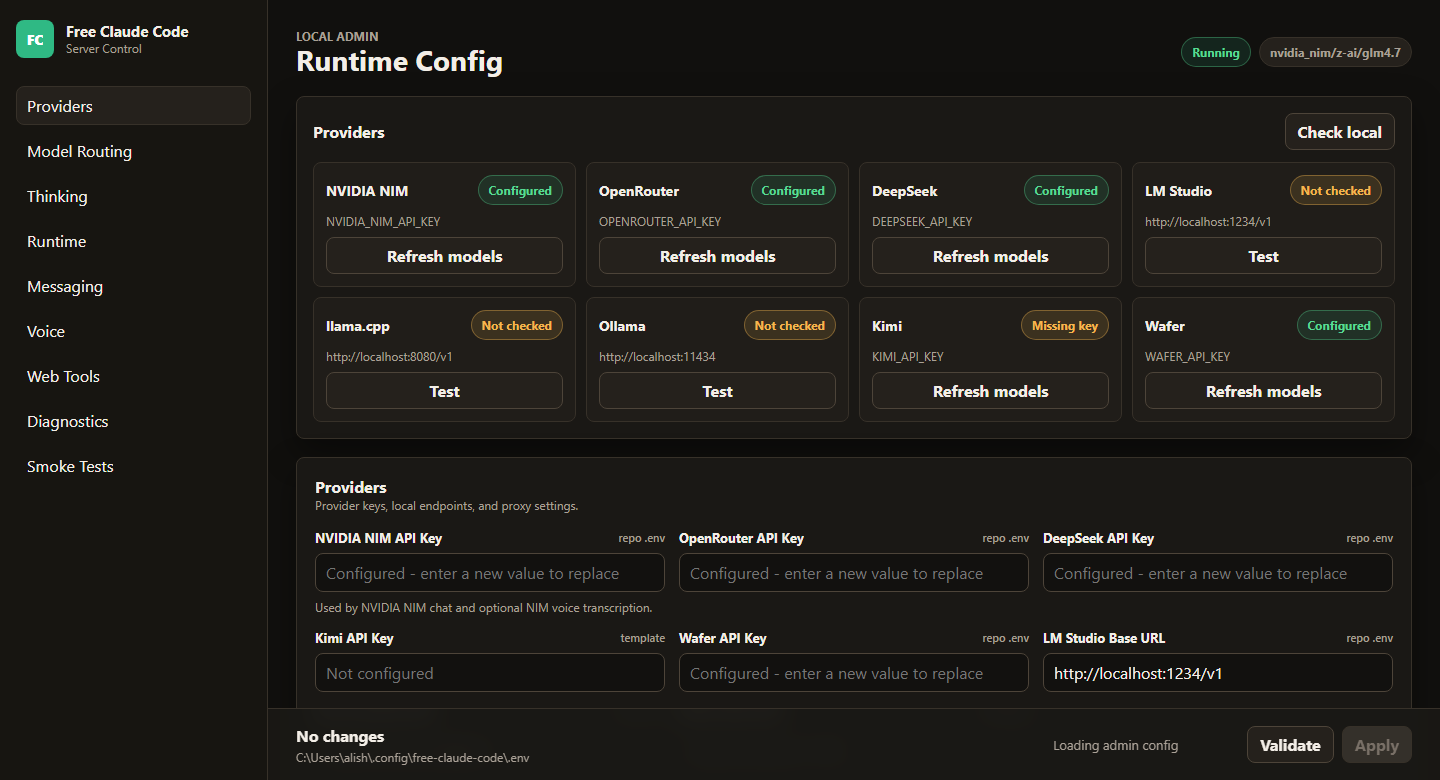
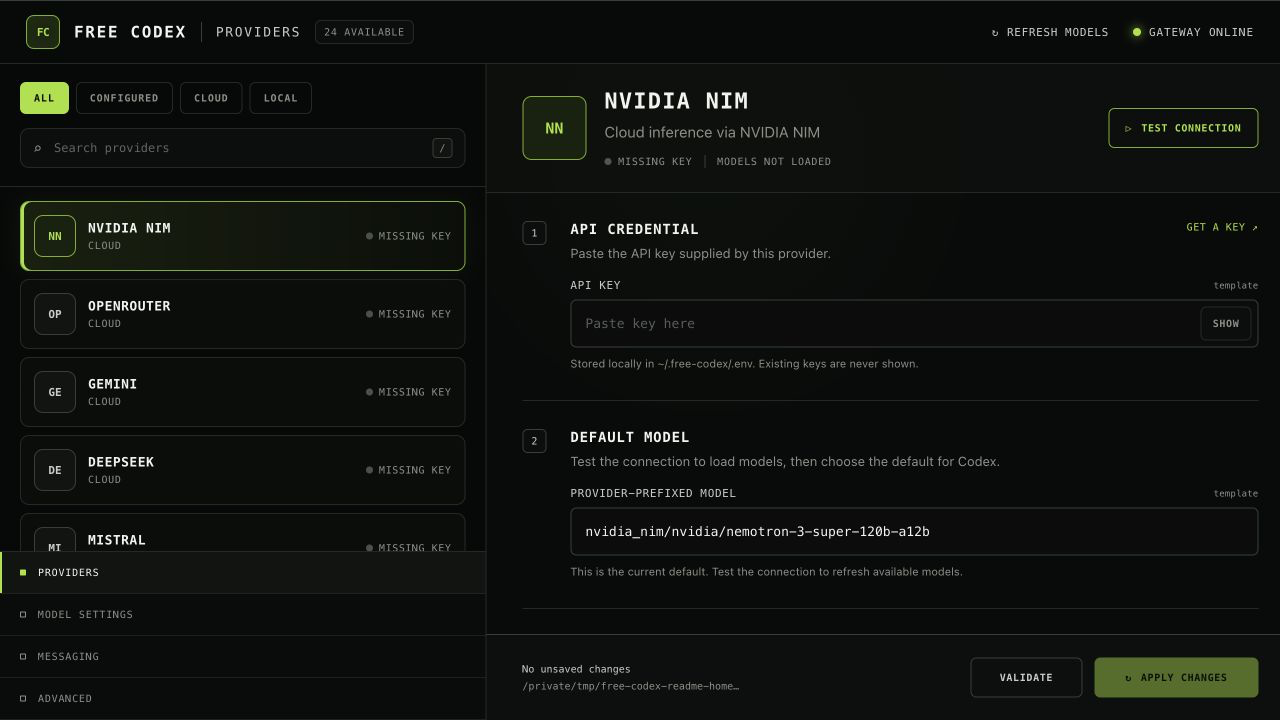
Polish README and add current screenshots

diff --git a/README.md b/README.md
@@ -2,213 +2,244 @@
 
 # Free Codex
 
-Run Codex CLI with free, local, or provider-hosted models through a local OpenAI Responses gateway.
+Run the Codex CLI with cloud, free-tier, or local models through a local OpenAI Responses gateway.
 
-[Quick start](#quick-start) | [Providers](#providers) | [How it works](#how-it-works) | [Development](#development)
+[Quick start](#quick-start) · [Using models](#using-models) · [Providers](#providers) · [Development](#development)
 
 </div>
 
-Free Codex keeps the Codex terminal experience - tool use, streaming, resumable threads, and the native model picker - while routing inference through a provider you control.
+Free Codex keeps the normal Codex terminal experience—including tools, streaming,
+resumable threads, and `/model`—while sending model requests to a provider you
+choose.
 
-## Features
+![Free Codex provider setup](assets/admin-page.png)
 
-- First-class free-codex, free-codex-server, and free-codex-init commands.
-- OpenAI Responses-compatible gateway for Codex CLI and the Codex editor extension.
-- 24 cloud and local provider adapters.
-- Local Admin UI for credentials, model selection, validation, and runtime settings.
-- Generated model catalog for the native /model picker.
-- Streaming text, reasoning, tool calls, usage accounting, retry handling, and protocol error mapping.
-- Optional Discord and Telegram sessions backed by codex exec --json.
-- Optional local or NVIDIA NIM voice transcription.
-- Windows, macOS, and Linux lifecycle scripts.
-- Deterministic provider, protocol, API, messaging, and CLI tests.
+## What you get
+
+- The standard Codex CLI and its built-in tools.
+- A local gateway compatible with the OpenAI Responses API.
+- A browser-based Admin UI for API keys, connection tests, and model selection.
+- 21 cloud provider integrations and 3 local runtimes.
+- A generated catalog that makes provider models available through Codex `/model`.
+- macOS, Linux, and Windows installers.
+
+Free Codex does not provide models or bypass provider terms. Availability, pricing,
+rate limits, and data handling are controlled by the provider you select.
 
 ## Quick start
 
 ### 1. Clone and install
 
-    git clone https://github.com/ishaanxgupta/free-codex.git
-    cd free-codex
+```sh
+git clone https://github.com/ishaanxgupta/free-codex.git
+cd free-codex
+```
 
 macOS or Linux:
 
-    sh scripts/install.sh
+```sh
+./scripts/install.sh
+```
 
 Windows PowerShell:
 
-    .\scripts\install.ps1
+```powershell
+.\scripts\install.ps1
+```
 
-The installer provisions Codex CLI when missing, Astral uv, Python 3.14, and the Free Codex tool.
+The installer adds Codex CLI when it is missing, installs Astral `uv` and Python
+3.14, and installs the three Free Codex commands.
 
-### 2. Initialize configuration
+### 2. Create your local configuration
 
-    free-codex-init
+```sh
+free-codex-init
+```
 
-This creates ~/.free-codex/.env.
+This creates `~/.free-codex/.env` (or `%USERPROFILE%\.free-codex\.env` on
+Windows).
 
 ### 3. Start the gateway
 
-    free-codex-server
+```sh
+free-codex-server
+```
 
-The Admin UI opens at http://127.0.0.1:8082/admin by default.
+Keep this terminal open. The Admin UI opens automatically at
+[http://127.0.0.1:8082/admin](http://127.0.0.1:8082/admin).
 
-### 4. Add a provider key and select a model
+In the Admin UI:
 
-Open the Admin UI, select a provider, add its API key or local server URL, and
-choose **Test connection**. After the provider returns its available models,
-select a default model and choose **Apply changes**. Provider keys are stored
-locally in `~/.free-codex/.env` and are never shown again by the Admin UI.
+1. Select a cloud provider or local runtime.
+2. Paste its API key, or confirm the local endpoint.
+3. Choose **Test connection** to load the provider's current models.
+4. Select a default model and choose **Apply changes**.
 
-For a no-cost cloud starting point, enter these values in the Admin UI:
+API keys stay in the local `~/.free-codex/.env` file. Saved keys are masked in
+the Admin UI.
 
-    OPENROUTER_API_KEY="..."
-    MODEL="open_router/openrouter/free"
+### 4. Launch Codex
 
-For Ollama:
+Open a second terminal in the repository you want Codex to work on:
 
-    OLLAMA_BASE_URL="http://localhost:11434"
-    MODEL="ollama/qwen3-coder"
+```sh
+free-codex
+```
 
-Apply the settings in the Admin UI, restart the gateway if prompted, then launch
-Codex in a second terminal:
+That is all that is required. Free Codex supplies the gateway URL, authentication,
+default model, and model catalog to Codex for that launch; it does not permanently
+rewrite your Codex configuration.
 
-    free-codex
+## Using models
 
-All normal Codex arguments are forwarded:
+Inside Codex, enter `/model` to choose any model discovered from your configured
+providers.
 
-    free-codex exec "explain this repository"
-    free-codex --sandbox workspace-write --ask-for-approval never
+You can also select a provider-prefixed model when launching:
 
-Inside Codex, use /model to select a model exposed by the gateway.
+```sh
+free-codex --model "nvidia_nim/z-ai/glm-5.2"
+```
+
+Run a non-interactive task:
+
+```sh
+free-codex exec "explain this repository"
+```
+
+Use normal current Codex safety flags when needed:
+
+```sh
+free-codex --sandbox workspace-write --ask-for-approval never
+```
+
+The older `--full-auto` flag is not accepted by current Codex CLI versions.
+
+## Admin UI
+
+The Admin UI keeps provider credentials, model choice, reasoning settings, web
+tools, messaging, and advanced runtime options in one place.
+
+![Free Codex model settings](assets/admin-settings.png)
 
 ## Providers
 
-| Provider | Credential or setting | Example model |
+The Admin UI is the source of truth for connection requirements and currently
+available models. Choose **Get a key** for the selected cloud provider, then use
+**Test connection** to discover its models.
+
+<details>
+<summary>All supported providers</summary>
+
+| Provider | Credential or endpoint | Model format |
 | --- | --- | --- |
-| [OpenRouter](https://openrouter.ai/) | `OPENROUTER_API_KEY` | `open_router/openrouter/free` |
-| [NVIDIA NIM](https://build.nvidia.com/) | `NVIDIA_NIM_API_KEY` | `nvidia_nim/nvidia/nemotron-3-super-120b-a12b` |
-| [Gemini](https://aistudio.google.com/) | `GEMINI_API_KEY` | `gemini/models/gemini-3.1-flash-lite` |
-| [DeepSeek](https://platform.deepseek.com/) | `DEEPSEEK_API_KEY` | `deepseek/deepseek-chat` |
-| [Mistral](https://console.mistral.ai/) | `MISTRAL_API_KEY` | `mistral/devstral-small-latest` |
-| [Mistral Codestral](https://console.mistral.ai/) | `CODESTRAL_API_KEY` | `mistral_codestral/codestral-latest` |
-| [OpenCode Zen](https://opencode.ai/) | `OPENCODE_API_KEY` | `opencode/gpt-5.3-codex` |
-| [OpenCode Go](https://opencode.ai/) | `OPENCODE_API_KEY` | `opencode_go/minimax-m2.7` |
-| [Vercel AI Gateway](https://vercel.com/docs/ai-gateway) | `AI_GATEWAY_API_KEY` | `vercel/openai/gpt-5.5` |
-| [Hugging Face](https://huggingface.co/) | `HUGGINGFACE_API_KEY` | `huggingface/openai/gpt-oss-120b:fastest` |
-| [Cohere](https://cohere.com/) | `COHERE_API_KEY` | `cohere/command-a-plus-05-2026` |
-| [GitHub Models](https://github.com/marketplace/models) | `GITHUB_MODELS_TOKEN` | `github_models/openai/gpt-4.1` |
-| [Wafer](https://www.wafer.ai/) | `WAFER_API_KEY` | `wafer/DeepSeek-V4-Pro` |
-| [Kimi](https://platform.moonshot.cn/) | `KIMI_API_KEY` | `kimi/kimi-k2.5` |
-| [MiniMax](https://www.minimax.io/) | `MINIMAX_API_KEY` | `minimax/MiniMax-M3` |
-| [Groq](https://console.groq.com/) | `GROQ_API_KEY` | `groq/llama-3.3-70b-versatile` |
-| [Cerebras](https://cloud.cerebras.ai/) | `CEREBRAS_API_KEY` | `cerebras/gpt-oss-120b` |
-| [SambaNova](https://cloud.sambanova.ai/) | `SAMBANOVA_API_KEY` | `sambanova/Meta-Llama-3.3-70B-Instruct` |
-| [Fireworks](https://fireworks.ai/) | `FIREWORKS_API_KEY` | `fireworks/accounts/fireworks/models/llama-v3p3-70b-instruct` |
-| [Cloudflare Workers AI](https://developers.cloudflare.com/workers-ai/) | `CLOUDFLARE_API_TOKEN` and `CLOUDFLARE_ACCOUNT_ID` | `cloudflare/@cf/moonshotai/kimi-k2.6` |
-| [Z.ai](https://z.ai/) | `ZAI_API_KEY` | `zai/glm-5.2` |
-| [Ollama](https://ollama.com/) | `OLLAMA_BASE_URL` | `ollama/qwen3-coder` |
-| [LM Studio](https://lmstudio.ai/) | `LM_STUDIO_BASE_URL` | `lmstudio/model-id` |
-| [llama.cpp](https://github.com/ggml-org/llama.cpp) | `LLAMACPP_BASE_URL` | `llamacpp/model-id` |
+| [NVIDIA NIM](https://build.nvidia.com/) | `NVIDIA_NIM_API_KEY` | `nvidia_nim/<model-id>` |
+| [OpenRouter](https://openrouter.ai/) | `OPENROUTER_API_KEY` | `open_router/<provider>/<model>` |
+| [Gemini](https://aistudio.google.com/) | `GEMINI_API_KEY` | `gemini/models/<model>` |
+| [DeepSeek](https://platform.deepseek.com/) | `DEEPSEEK_API_KEY` | `deepseek/<model-id>` |
+| [Mistral](https://console.mistral.ai/) | `MISTRAL_API_KEY` | `mistral/<model-id>` |
+| [Mistral Codestral](https://console.mistral.ai/) | `CODESTRAL_API_KEY` | `mistral_codestral/<model-id>` |
+| [OpenCode Zen](https://opencode.ai/) | `OPENCODE_API_KEY` | `opencode/<model-id>` |
+| [OpenCode Go](https://opencode.ai/) | `OPENCODE_API_KEY` | `opencode_go/<model-id>` |
+| [Vercel AI Gateway](https://vercel.com/docs/ai-gateway) | `AI_GATEWAY_API_KEY` | `vercel/<provider>/<model>` |
+| [Hugging Face](https://huggingface.co/) | `HUGGINGFACE_API_KEY` | `huggingface/<model-id>` |
+| [Cohere](https://cohere.com/) | `COHERE_API_KEY` | `cohere/<model-id>` |
+| [GitHub Models](https://github.com/marketplace/models) | `GITHUB_MODELS_TOKEN` | `github_models/<model-id>` |
+| [Wafer](https://www.wafer.ai/) | `WAFER_API_KEY` | `wafer/<model-id>` |
+| [Kimi](https://platform.moonshot.cn/) | `KIMI_API_KEY` | `kimi/<model-id>` |
+| [MiniMax](https://www.minimax.io/) | `MINIMAX_API_KEY` | `minimax/<model-id>` |
+| [Cerebras](https://cloud.cerebras.ai/) | `CEREBRAS_API_KEY` | `cerebras/<model-id>` |
+| [Groq](https://console.groq.com/) | `GROQ_API_KEY` | `groq/<model-id>` |
+| [SambaNova](https://cloud.sambanova.ai/) | `SAMBANOVA_API_KEY` | `sambanova/<model-id>` |
+| [Fireworks](https://fireworks.ai/) | `FIREWORKS_API_KEY` | `fireworks/<model-id>` |
+| [Cloudflare Workers AI](https://developers.cloudflare.com/workers-ai/) | API token and account ID | `cloudflare/<model-id>` |
+| [Z.ai](https://z.ai/) | `ZAI_API_KEY` | `zai/<model-id>` |
+| [Ollama](https://ollama.com/) | `http://localhost:11434` | `ollama/<model-id>` |
+| [LM Studio](https://lmstudio.ai/) | `http://localhost:1234/v1` | `lmstudio/<model-id>` |
+| [llama.cpp](https://github.com/ggml-org/llama.cpp) | `http://localhost:8080/v1` | `llamacpp/<model-id>` |
 
-The Admin UI contains the complete provider catalog and provider-specific validation.
-
-Free Codex does not provide models or bypass provider terms. "Free" means you can use free-tier or local inference when the selected provider offers it.
-
-## Configuration
-
-Important settings in ~/.free-codex/.env:
-
-    MODEL="open_router/openrouter/free"
-    FREE_CODEX_AUTH_TOKEN="free-codex"
-    FREE_CODEX_OPEN_BROWSER=true
-    PROVIDER_MAX_CONCURRENCY=5
-    HTTP_READ_TIMEOUT=300
-
-The launcher injects an ephemeral Codex provider equivalent to:
-
-    model_provider = "free_codex"
-
-    [model_providers.free_codex]
-    name = "Free Codex"
-    base_url = "http://127.0.0.1:8082/v1"
-    env_key = "FREE_CODEX_API_KEY"
-    wire_api = "responses"
-
-No permanent changes to the user's Codex configuration are required.
-
-## Codex editor extension
-
-Create or update ~/.codex/config.toml (or %USERPROFILE%\.codex\config.toml on Windows) with the provider block above. Store the configured gateway token in ~/.codex/auth.json:
-
-    {
-      "FREE_CODEX_API_KEY": "free-codex"
-    }
-
-Restart the editor after changing Codex configuration.
-
-## Optional messaging
-
-Configure Discord or Telegram from Admin UI -> Messaging. Managed conversations run through codex exec --json; replies resume the recorded Codex thread.
-
-Because messaging execution is unattended, restrict ALLOWED_DIR to a dedicated workspace and protect the gateway and bot credentials.
+</details>
 
 ## How it works
 
-    Codex CLI / extension
-              |
-              v
-    Free Codex Responses gateway
-              |
-              v
-         Model router
-              |
-              v
-      Cloud or local provider
+```text
+Codex CLI
+    │ OpenAI Responses requests
+    ▼
+Free Codex gateway at 127.0.0.1:8082
+    │ model routing and protocol conversion
+    ▼
+Selected cloud provider or local runtime
+```
 
-Codex sends OpenAI Responses requests to the local gateway. Free Codex converts those requests to the selected provider's native or OpenAI-compatible transport, then converts streaming output back to Responses events Codex understands.
+Provider-specific behavior stays behind the gateway. Codex continues to use the
+Responses contract for streaming text, reasoning, tool calls, and usage events.
+See [ARCHITECTURE.md](ARCHITECTURE.md) for implementation details.
 
-Some providers expose Chat Completions or Anthropic-compatible message APIs rather than Responses. Those protocol converters are internal gateway details; the public client surface remains Codex Responses.
+## Configuration
 
-See [ARCHITECTURE.md](ARCHITECTURE.md) for package boundaries and extension points.
+The Admin UI writes settings to `~/.free-codex/.env`. Common values are:
+
+```dotenv
+MODEL="open_router/openrouter/free"
+FREE_CODEX_AUTH_TOKEN="free-codex"
+FREE_CODEX_OPEN_BROWSER=true
+```
+
+`MODEL` must include the Free Codex provider prefix, such as `open_router/`,
+`nvidia_nim/`, `gemini/`, or `ollama/`.
 
 ## Security
 
-- The Admin API is loopback-only.
-- Set FREE_CODEX_AUTH_TOKEN when the gateway is reachable by anything other than your local user.
-- API keys are stored in the managed dotenv file and redacted from structured traces.
-- Raw prompts and provider payloads are not logged unless diagnostic flags are explicitly enabled.
-- Messaging uses unattended Codex execution; use an isolated workspace and narrow bot allowlists.
-- Review provider privacy, retention, and acceptable-use policies before sending source code.
+- The Admin UI only accepts loopback clients.
+- API keys are stored locally and masked in the UI.
+- Raw prompts and provider payloads are not logged unless diagnostic logging is
+  explicitly enabled.
+- Set a strong `FREE_CODEX_AUTH_TOKEN` before exposing the gateway beyond your
+  own machine.
+- Review the selected provider's privacy, retention, and acceptable-use policies
+  before sending source code.
 
 ## Development
 
-Requirements: uv 0.11 or newer and Python 3.14.
+Requirements: `uv >= 0.11` and Python 3.14.
 
-    uv sync
-    uv run ruff format
-    uv run ruff check
-    uv run ty check
-    uv run pytest
+```sh
+uv sync
+uv run ruff format
+uv run ruff check
+uv run ty check
+uv run pytest
+```
 
-Run the platform CI helper before contributing:
+Run the platform CI helper before publishing:
 
-    ./scripts/ci.sh
+```sh
+./scripts/ci.sh
+```
 
-or:
+Windows PowerShell:
 
-    .\scripts\ci.ps1
+```powershell
+.\scripts\ci.ps1
+```
 
 ## Uninstall
 
 macOS or Linux:
 
-    ./scripts/uninstall.sh
+```sh
+./scripts/uninstall.sh
+```
 
 Windows PowerShell:
 
-    .\scripts\uninstall.ps1
+```powershell
+.\scripts\uninstall.ps1
+```
 
-The uninstaller removes the Free Codex uv tool and ~/.free-codex/. It does not remove Codex CLI, uv, or uv-managed Python runtimes.
+The uninstaller removes the Free Codex `uv` tool and `~/.free-codex/`. It
+does not remove Codex CLI, `uv`, or `uv`-managed Python runtimes.
 
 ## License
 
